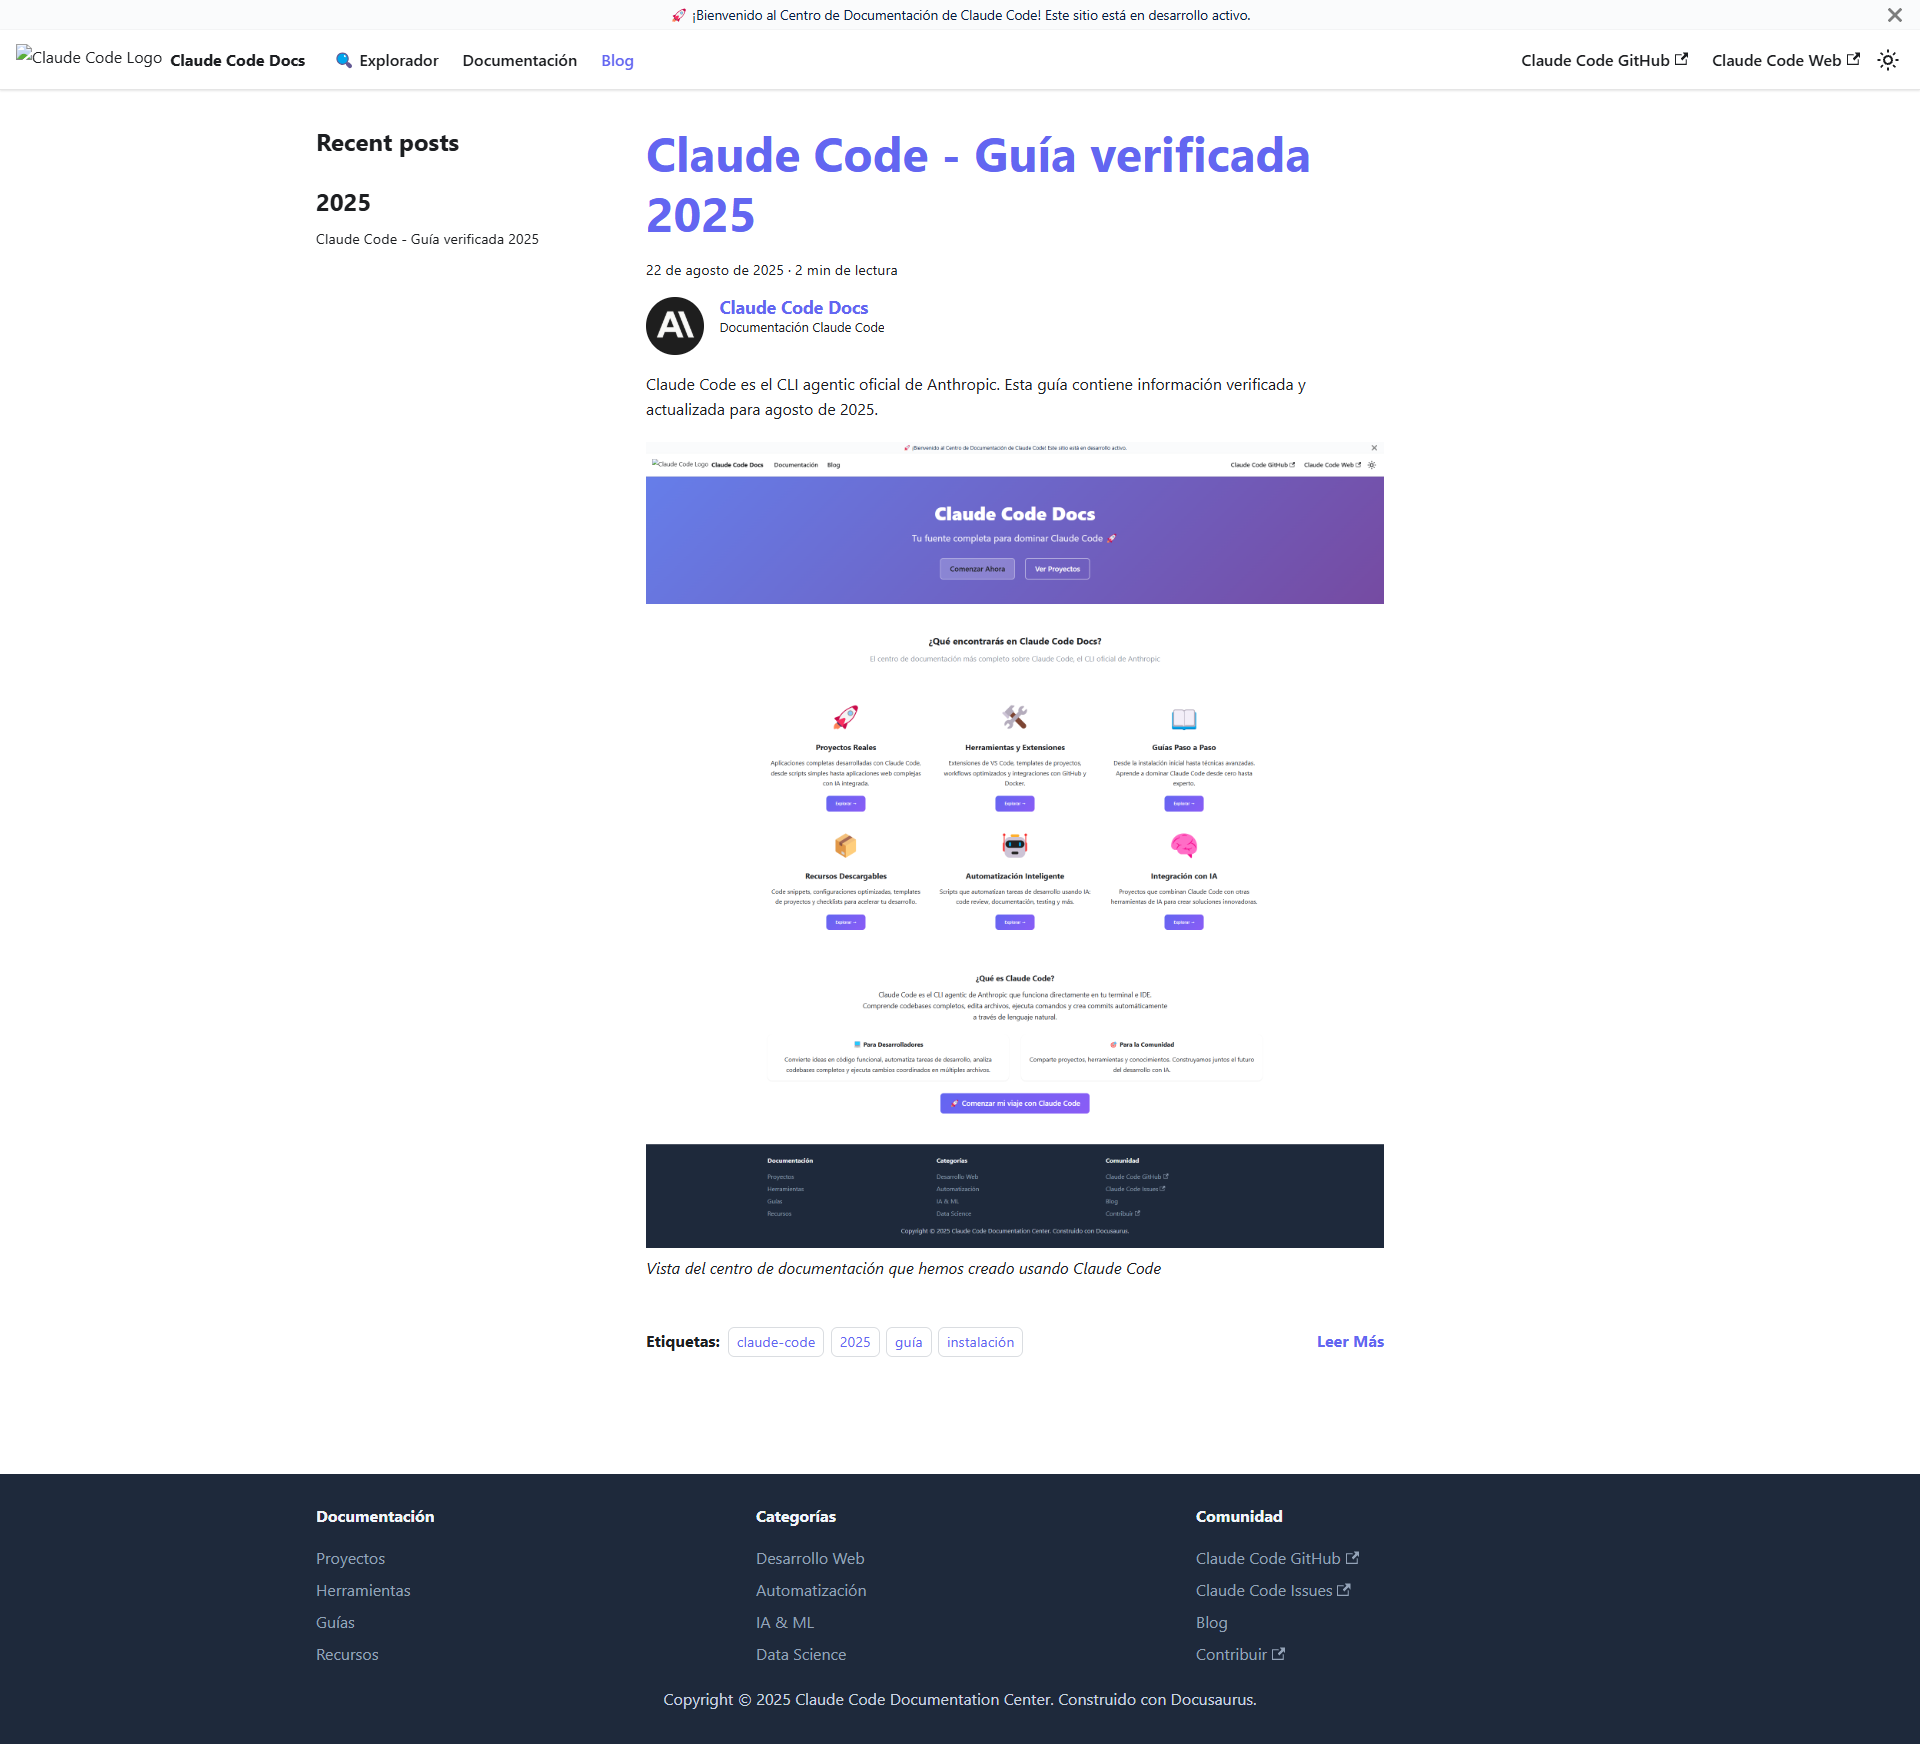
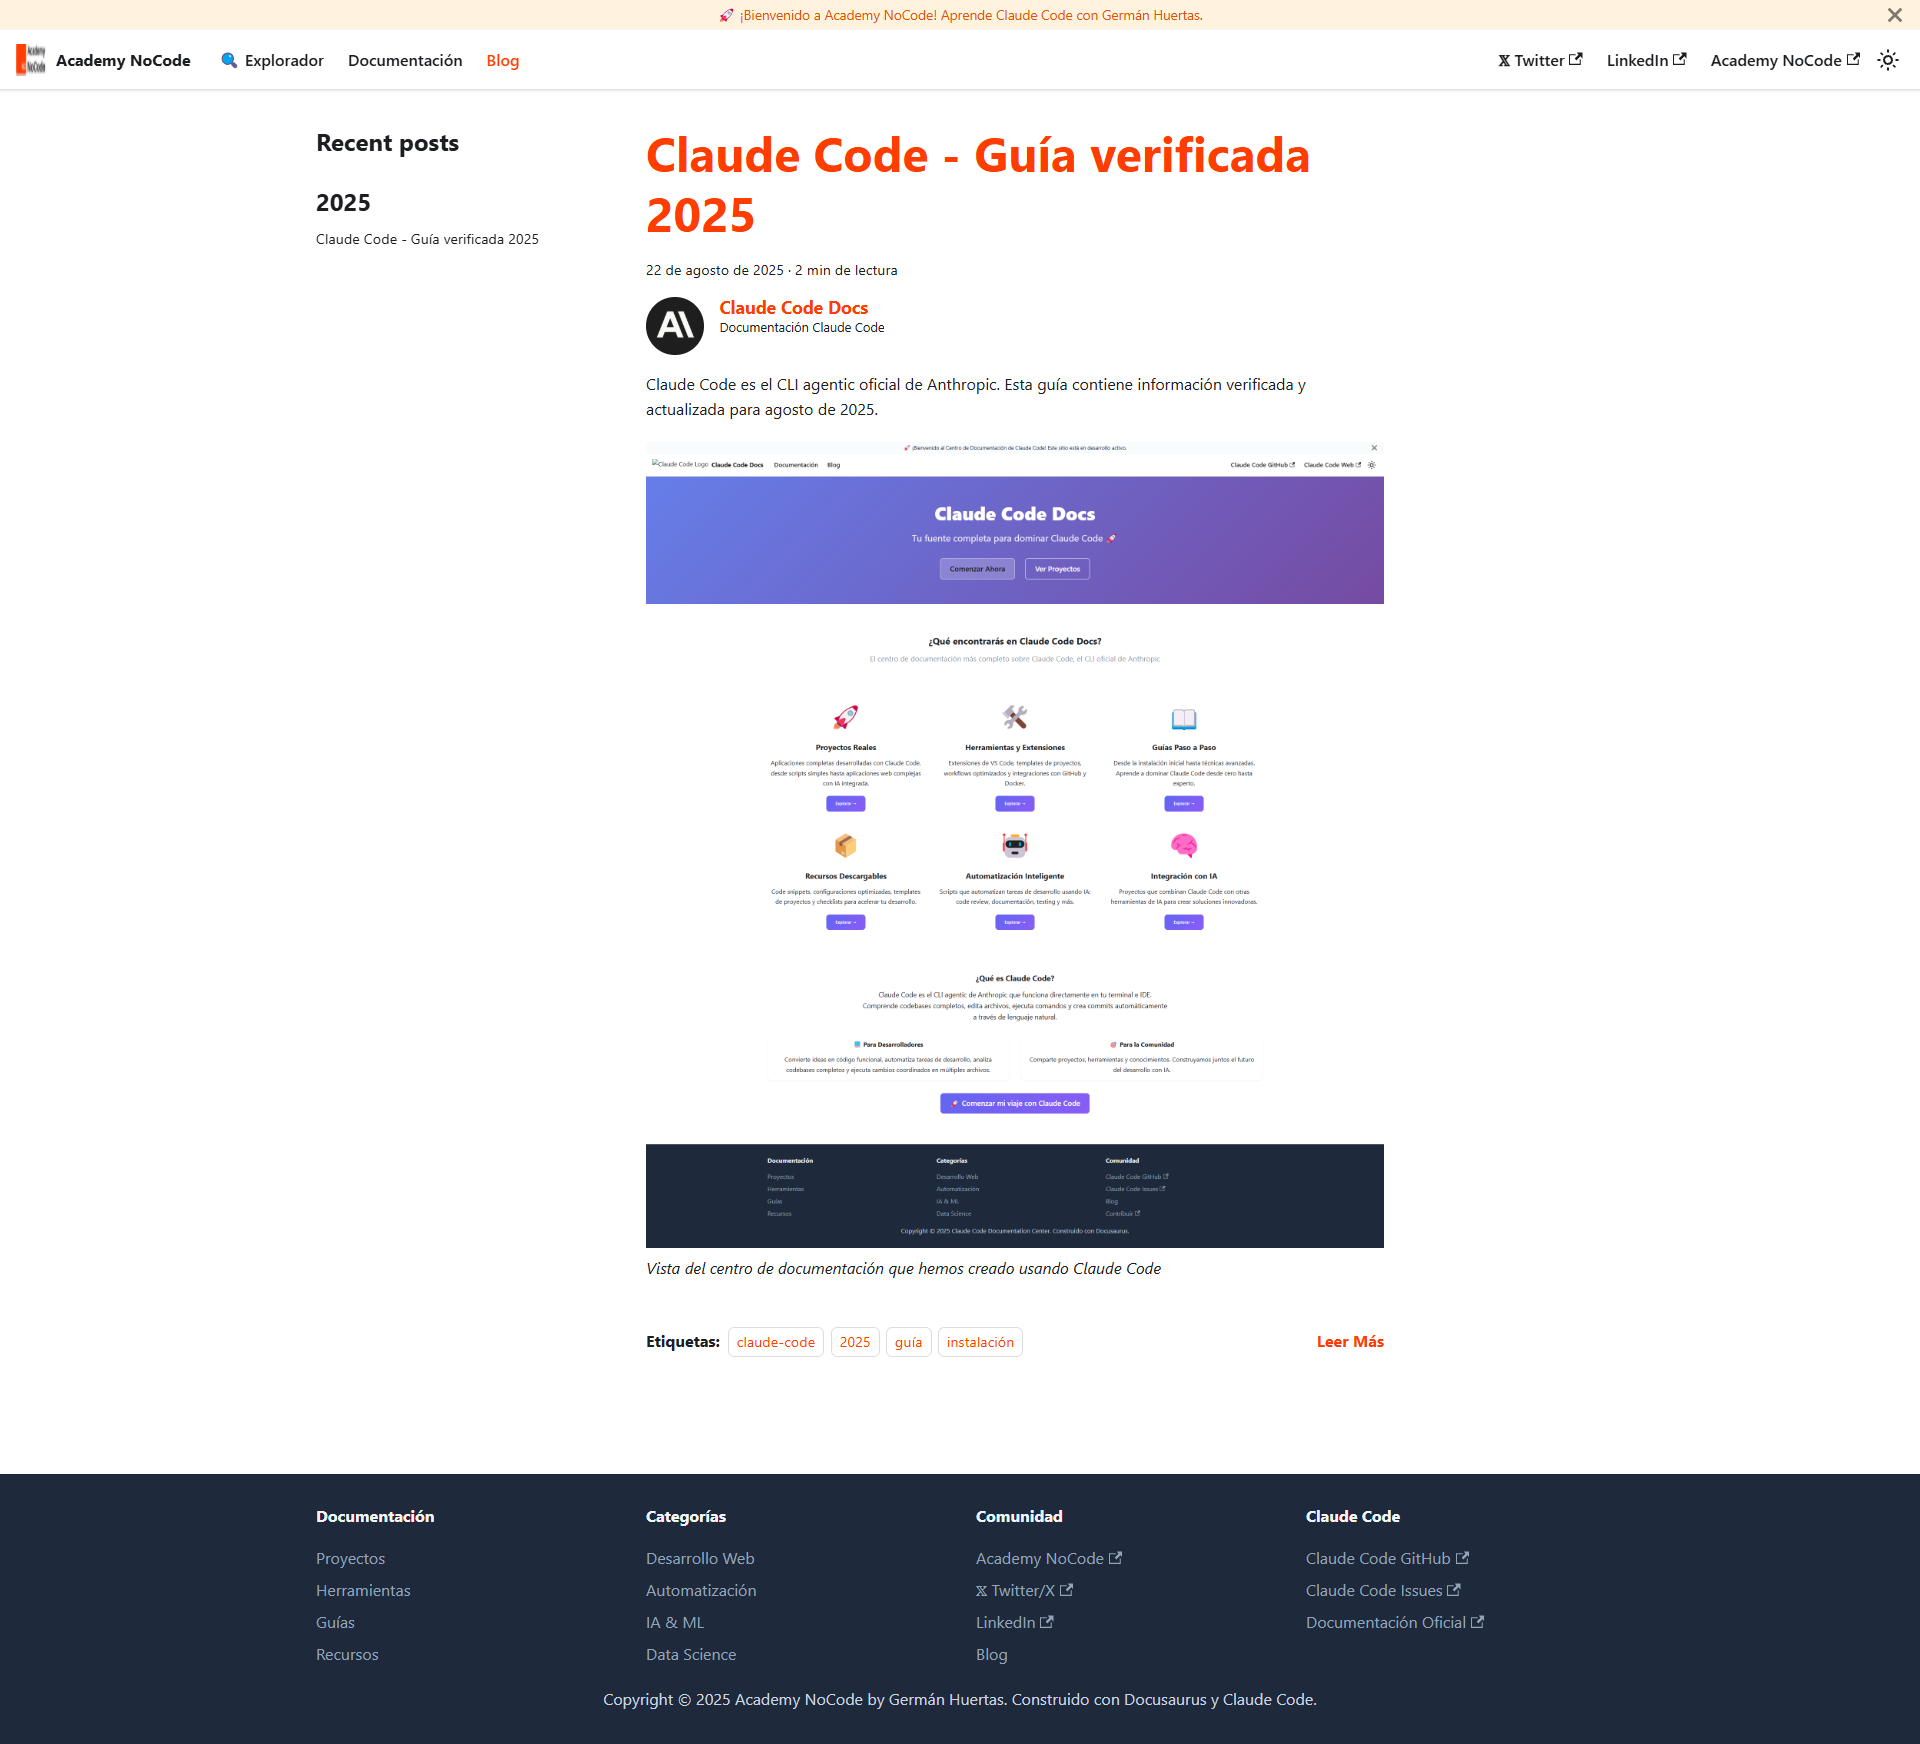
🎨 Implement complete Academy NoCode branding
## 🚀 Brand Implementation

### Color Palette Update
- Primary color changed to #ff3d00 (Academy NoCode orange)
- Complete complementary palette with orange variants
- Updated dark mode colors for consistency
- All UI elements now use the new orange brand colors

### Brand Identity
- Title: "Academy NoCode - Claude Code"
- Tagline: "Aprende Claude Code con Germán Huertas"
- Added Academy NoCode logos for light and dark modes
- Updated all branding references throughout the site

### Personal Branding - Germán Huertas
- Copyright: "Academy NoCode by Germán Huertas"
- Added social media links:
  - 𝕏 Twitter: https://x.com/Nocodeboy
  - LinkedIn: https://www.linkedin.com/in/germán-huertas-piquero-b89a80b1/
  - Website: https://academynocode.com
- Updated announcement bar with personal branding

### UI/UX Updates
- All buttons now use #ff3d00 gradient
- Explorer page consistent with new color scheme
- Updated hover states and focus indicators
- Maintained accessibility standards with new colors
- Footer reorganized with Academy NoCode community links

### Assets Added
- logo-light.png - Academy NoCode logo for light mode
- logo-dark.png - Academy NoCode logo for dark mode
- Updated all screenshots with new branding

The site now fully represents Academy NoCode brand identity
while maintaining all the Claude Code educational content.

🤖 Generated with [Claude Code](https://claude.ai/code)

diff --git a/docusaurus.config.ts b/docusaurus.config.ts
@@ -3,8 +3,8 @@ import type {Config} from '@docusaurus/types';
 import type * as Preset from '@docusaurus/preset-classic';
 
 const config: Config = {
-  title: 'Centro de Documentación Claude Code',
-  tagline: 'Tu centro completo para dominar Claude Code - El CLI de IA de Anthropic',
+  title: 'Academy NoCode - Centro Claude Code',
+  tagline: 'Tu centro completo para dominar Claude Code con Germán Huertas',
   favicon: 'img/favicon.ico',
 
   // Set the production url of your site here
@@ -15,7 +15,7 @@ const config: Config = {
 
   // GitHub pages deployment config.
   // If you aren't using GitHub pages, you don't need these.
-  organizationName: 'claude-code-community', // Usually your GitHub org/user name.
+  organizationName: 'Nocodeboy', // Usually your GitHub org/user name.
   projectName: 'claude-code-docs', // Usually your repo name.
 
   onBrokenLinks: 'warn',
@@ -69,10 +69,13 @@ const config: Config = {
     // Replace with your project's social card
     image: 'img/claude-code-social-card.jpg',
     navbar: {
-      title: 'Claude Code Docs',
+      title: 'Academy NoCode',
       logo: {
-        alt: 'Claude Code Logo',
-        src: 'img/claude-code-logo.svg',
+        alt: 'Academy NoCode Logo',
+        src: 'img/logo-light.png',
+        srcDark: 'img/logo-dark.png',
+        width: 32,
+        height: 32,
       },
       items: [
         {to: '/explorer', label: '🔍 Explorador', position: 'left'},
@@ -84,13 +87,18 @@ const config: Config = {
         },
         {to: '/blog', label: 'Blog', position: 'left'},
         {
-          href: 'https://github.com/anthropics/claude-code',
-          label: 'Claude Code GitHub',
+          href: 'https://x.com/Nocodeboy',
+          label: '𝕏 Twitter',
           position: 'right',
         },
         {
-          href: 'https://claude.ai/code',
-          label: 'Claude Code Web',
+          href: 'https://www.linkedin.com/in/germán-huertas-piquero-b89a80b1/',
+          label: 'LinkedIn',
+          position: 'right',
+        },
+        {
+          href: 'https://academynocode.com',
+          label: 'Academy NoCode',
           position: 'right',
         },
       ],
@@ -144,6 +152,27 @@ const config: Config = {
           title: 'Comunidad',
           items: [
             {
+              label: 'Academy NoCode',
+              href: 'https://academynocode.com',
+            },
+            {
+              label: '𝕏 Twitter/X',
+              href: 'https://x.com/Nocodeboy',
+            },
+            {
+              label: 'LinkedIn',
+              href: 'https://www.linkedin.com/in/germán-huertas-piquero-b89a80b1/',
+            },
+            {
+              label: 'Blog',
+              to: '/blog',
+            },
+          ],
+        },
+        {
+          title: 'Claude Code',
+          items: [
+            {
               label: 'Claude Code GitHub',
               href: 'https://github.com/anthropics/claude-code',
             },
@@ -152,17 +181,13 @@ const config: Config = {
               href: 'https://github.com/anthropics/claude-code/issues',
             },
             {
-              label: 'Blog',
-              to: '/blog',
-            },
-            {
-              label: 'Contribuir',
-              href: 'https://github.com/claude-code-community/claude-code-docs/blob/main/CONTRIBUTING.md',
+              label: 'Documentación Oficial',
+              href: 'https://docs.anthropic.com/claude-code',
             },
           ],
         },
       ],
-      copyright: `Copyright © 2025 Claude Code Documentation Center. Construido con Docusaurus.`,
+      copyright: `Copyright © 2025 Academy NoCode by Germán Huertas. Construido con Docusaurus y Claude Code.`,
     },
     prism: {
       theme: prismThemes.github,
@@ -193,11 +218,11 @@ const config: Config = {
     // },
     // Announcement bar for important updates
     announcementBar: {
-      id: 'claude-code-docs-launch',
+      id: 'academy-nocode-claude-code',
       content:
-        '🚀 ¡Bienvenido al Centro de Documentación de Claude Code! Este sitio está en desarrollo activo.',
-      backgroundColor: '#fafbfc',
-      textColor: '#091E42',
+        '🚀 ¡Bienvenido a Academy NoCode! Aprende Claude Code con Germán Huertas.',
+      backgroundColor: '#fff3e0',
+      textColor: '#e65100',
       isCloseable: true,
     },
   } satisfies Preset.ThemeConfig,

diff --git a/src/pages/index.tsx b/src/pages/index.tsx
@@ -13,9 +13,9 @@ function HomepageHeader() {
     <header className={clsx('hero hero--primary', styles.heroBanner)}>
       <div className="container">
         <Heading as="h1" className="hero__title">
-          Centro de Documentación Claude Code
+          Academy NoCode - Claude Code
         </Heading>
-        <p className="hero__subtitle">Tu centro completo para dominar Claude Code - El CLI de IA de Anthropic 🚀</p>
+        <p className="hero__subtitle">Aprende Claude Code con Germán Huertas - El centro más completo en español 🚀</p>
         <div className={styles.buttons}>
           <Link
             className="button button--secondary button--lg"
@@ -78,9 +78,9 @@ function HomepageFeatures() {
     <section className="padding-vert--xl">
       <div className="container">
         <div className="text--center margin-bottom--xl">
-          <Heading as="h2">¿Qué encontrarás en Claude Code Docs?</Heading>
+          <Heading as="h2">¿Qué encontrarás en Academy NoCode?</Heading>
           <p style={{fontSize: '1.2rem', color: 'var(--ifm-color-emphasis-600)'}}>
-            El centro de documentación más completo sobre Claude Code, el CLI oficial de Anthropic
+            El centro de documentación en español más completo sobre Claude Code con Germán Huertas
           </p>
         </div>
         <div className="row">
@@ -117,7 +117,7 @@ function HomepageFeatures() {
                   <h4>💻 Para Desarrolladores</h4>
                 </div>
                 <div className="card__body">
-                  <p>Convierte ideas en código funcional, automatiza tareas de desarrollo, analiza codebases completos y ejecuta cambios coordinados en múltiples archivos.</p>
+                  <p>Aprende con Germán Huertas cómo convertir ideas en código funcional, automatizar tareas de desarrollo y dominar Claude Code desde cero.</p>
                 </div>
               </div>
             </div>
@@ -127,7 +127,7 @@ function HomepageFeatures() {
                   <h4>🎯 Para la Comunidad</h4>
                 </div>
                 <div className="card__body">
-                  <p>Comparte proyectos, herramientas y conocimientos. Construyamos juntos el futuro del desarrollo con IA.</p>
+                  <p>Únete a Academy NoCode y aprende junto a otros desarrolladores. Construyamos juntos el futuro del desarrollo con IA.</p>
                 </div>
               </div>
             </div>
@@ -137,7 +137,7 @@ function HomepageFeatures() {
             <Link
               className="button button--primary button--lg"
               to="/docs/intro">
-              🚀 Comenzar mi viaje con Claude Code
+              🚀 Comenzar mi viaje con Academy NoCode
             </Link>
           </div>
         </div>
@@ -205,8 +205,8 @@ export default function Home() {
   const {siteConfig} = useDocusaurusContext();
   return (
     <Layout
-      title="Claude Code - Centro de Documentación"
-      description="Centro de documentación completo sobre Claude Code. Proyectos, herramientas, guías y recursos para dominar el CLI de Anthropic.">
+      title="Academy NoCode - Centro Claude Code"
+      description="Aprende Claude Code con Germán Huertas. El centro de documentación en español más completo con proyectos, herramientas y guías paso a paso.">
       <HomepageHeader />
       <main>
         <HomepageFeatures />

diff --git a/src/css/custom.css b/src/css/custom.css
@@ -5,20 +5,22 @@
 
 /* Variables principales de Claude Code Documentation */
 :root {
-  /* Colores primarios - Claude Code Documentation brand */
-  --ifm-color-primary: #6366f1;
-  --ifm-color-primary-dark: #4f46e5;
-  --ifm-color-primary-darker: #4338ca;
-  --ifm-color-primary-darkest: #3730a3;
-  --ifm-color-primary-light: #818cf8;
-  --ifm-color-primary-lighter: #a5b4fc;
-  --ifm-color-primary-lightest: #c7d2fe;
+  /* Colores primarios - Academy NoCode brand */
+  --ifm-color-primary: #ff3d00;
+  --ifm-color-primary-dark: #e63500;
+  --ifm-color-primary-darker: #cc2f00;
+  --ifm-color-primary-darkest: #b32900;
+  --ifm-color-primary-light: #ff5722;
+  --ifm-color-primary-lighter: #ff7043;
+  --ifm-color-primary-lightest: #ff8965;
   
-  /* Colores secundarios */
-  --ifm-color-secondary: #10b981;
-  --ifm-color-success: #22c55e;
-  --ifm-color-warning: #f59e0b;
-  --ifm-color-danger: #ef4444;
+  /* Colores secundarios - Complementarios al naranja */
+  --ifm-color-secondary: #00bcd4;
+  --ifm-color-success: #4caf50;
+  --ifm-color-warning: #ff9800;
+  --ifm-color-danger: #f44336;
+  --ifm-color-accent: #2196f3;
+  --ifm-color-neutral: #607d8b;
   
   /* Typography - Improved hierarchy */
   --ifm-font-family-base: 'Inter', system-ui, -apple-system, 'Segoe UI', sans-serif;
@@ -44,13 +46,13 @@
 
 /* Dark mode theme */
 [data-theme='dark'] {
-  --ifm-color-primary: #818cf8;
-  --ifm-color-primary-dark: #6366f1;
-  --ifm-color-primary-darker: #4f46e5;
-  --ifm-color-primary-darkest: #4338ca;
-  --ifm-color-primary-light: #a5b4fc;
-  --ifm-color-primary-lighter: #c7d2fe;
-  --ifm-color-primary-lightest: #e0e7ff;
+  --ifm-color-primary: #ff5722;
+  --ifm-color-primary-dark: #ff3d00;
+  --ifm-color-primary-darker: #e63500;
+  --ifm-color-primary-darkest: #cc2f00;
+  --ifm-color-primary-light: #ff7043;
+  --ifm-color-primary-lighter: #ff8965;
+  --ifm-color-primary-lightest: #ffab91;
   
   --ifm-code-background: #1e293b;
   --ifm-code-color: #cbd5e1;
@@ -103,7 +105,7 @@
 }
 
 .button--primary {
-  background: linear-gradient(135deg, #6366f1, #8b5cf6);
+  background: linear-gradient(135deg, #ff3d00, #ff5722);
   border: none;
 }
 
@@ -194,17 +196,17 @@
 }
 
 .badge--primary {
-  background: #6366f1;
+  background: #ff3d00;
   color: white;
 }
 
 .badge--success {
-  background: #10b981;
+  background: #4caf50;
   color: white;
 }
 
 .badge--warning {
-  background: #f59e0b;
+  background: #ff9800;
   color: white;
 }
 

diff --git a/src/pages/explorer.module.css b/src/pages/explorer.module.css
@@ -20,11 +20,11 @@
 }
 
 .highlight {
-  background: linear-gradient(45deg, #ff6b35, #f7931e);
+  background: linear-gradient(45deg, #ff3d00, #ff5722);
   background-clip: text;
   -webkit-background-clip: text;
   -webkit-text-fill-color: transparent;
-  text-shadow: 0 0 30px rgba(255, 107, 53, 0.5);
+  text-shadow: 0 0 30px rgba(255, 61, 0, 0.5);
 }
 
 .heroSubtitle {
@@ -51,7 +51,7 @@
 }
 
 .stepNumber {
-  background: #ff6b35;
+  background: #ff3d00;
   color: white;
   width: 32px;
   height: 32px;
@@ -91,7 +91,7 @@
   position: absolute;
   top: 0.5rem;
   right: 0.5rem;
-  background: #ff6b35;
+  background: #ff3d00;
   color: white;
   border: none;
   border-radius: 4px;
@@ -102,7 +102,7 @@
 }
 
 .copyBtn:hover {
-  background: #e55a2b;
+  background: #e63500;
 }
 
 .addToCart {
@@ -166,9 +166,9 @@
 
 .searchInput:focus {
   outline: none;
-  border-color: #6366f1;
+  border-color: #ff3d00;
   background: white;
-  box-shadow: 0 0 0 3px rgba(99, 102, 241, 0.1);
+  box-shadow: 0 0 0 3px rgba(255, 61, 0, 0.1);
 }
 
 /* Filters */
@@ -212,9 +212,9 @@
 }
 
 .filterBtn.active {
-  background: #ff6b35;
+  background: #ff3d00;
   color: white;
-  border-color: #ff6b35;
+  border-color: #ff3d00;
 }
 
 .count {
@@ -265,8 +265,8 @@
 }
 
 .docCard:hover {
-  border-color: #ff6b35;
-  box-shadow: 0 8px 25px rgba(255, 107, 53, 0.15);
+  border-color: #ff3d00;
+  box-shadow: 0 8px 25px rgba(255, 61, 0, 0.15);
   transform: translateY(-2px);
   text-decoration: none;
   color: inherit;
@@ -284,7 +284,7 @@
 }
 
 .category {
-  background: #ff6b35;
+  background: #ff3d00;
   color: white;
   padding: 0.3rem 0.6rem;
   border-radius: 4px;
@@ -412,8 +412,8 @@
 }
 
 [data-theme='dark'] .searchInput:focus {
-  border-color: #818cf8;
-  box-shadow: 0 0 0 3px rgba(129, 140, 248, 0.2);
+  border-color: #ff5722;
+  box-shadow: 0 0 0 3px rgba(255, 87, 34, 0.2);
 }
 
 [data-theme='dark'] .filterGroup span {
@@ -441,8 +441,8 @@
 }
 
 [data-theme='dark'] .docCard:hover {
-  border-color: #ff6b35;
-  box-shadow: 0 8px 25px rgba(255, 107, 53, 0.2);
+  border-color: #ff3d00;
+  box-shadow: 0 8px 25px rgba(255, 61, 0, 0.2);
 }
 
 [data-theme='dark'] .cardTitle {
